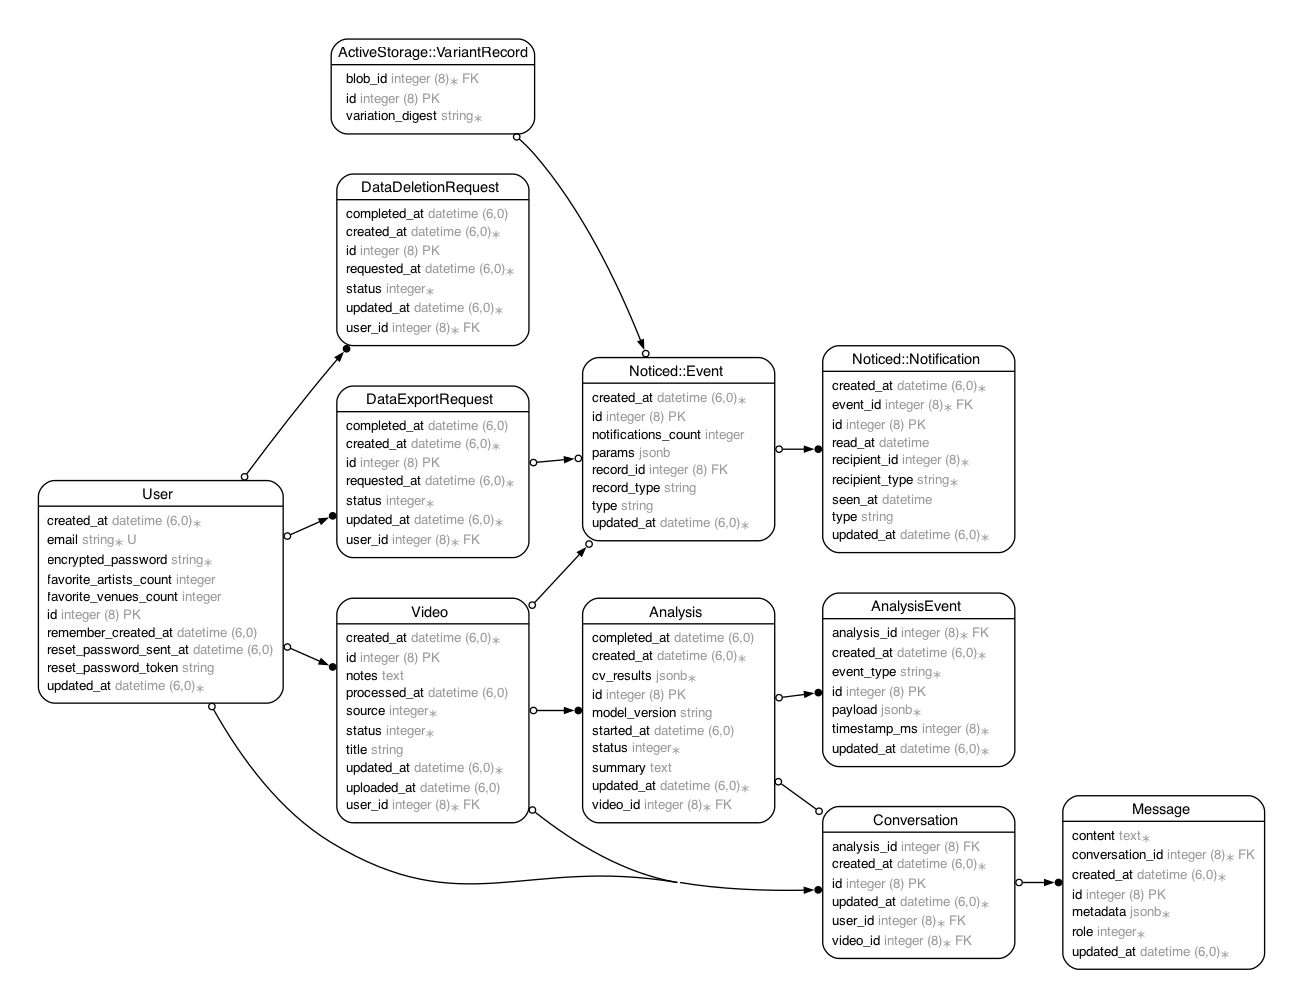
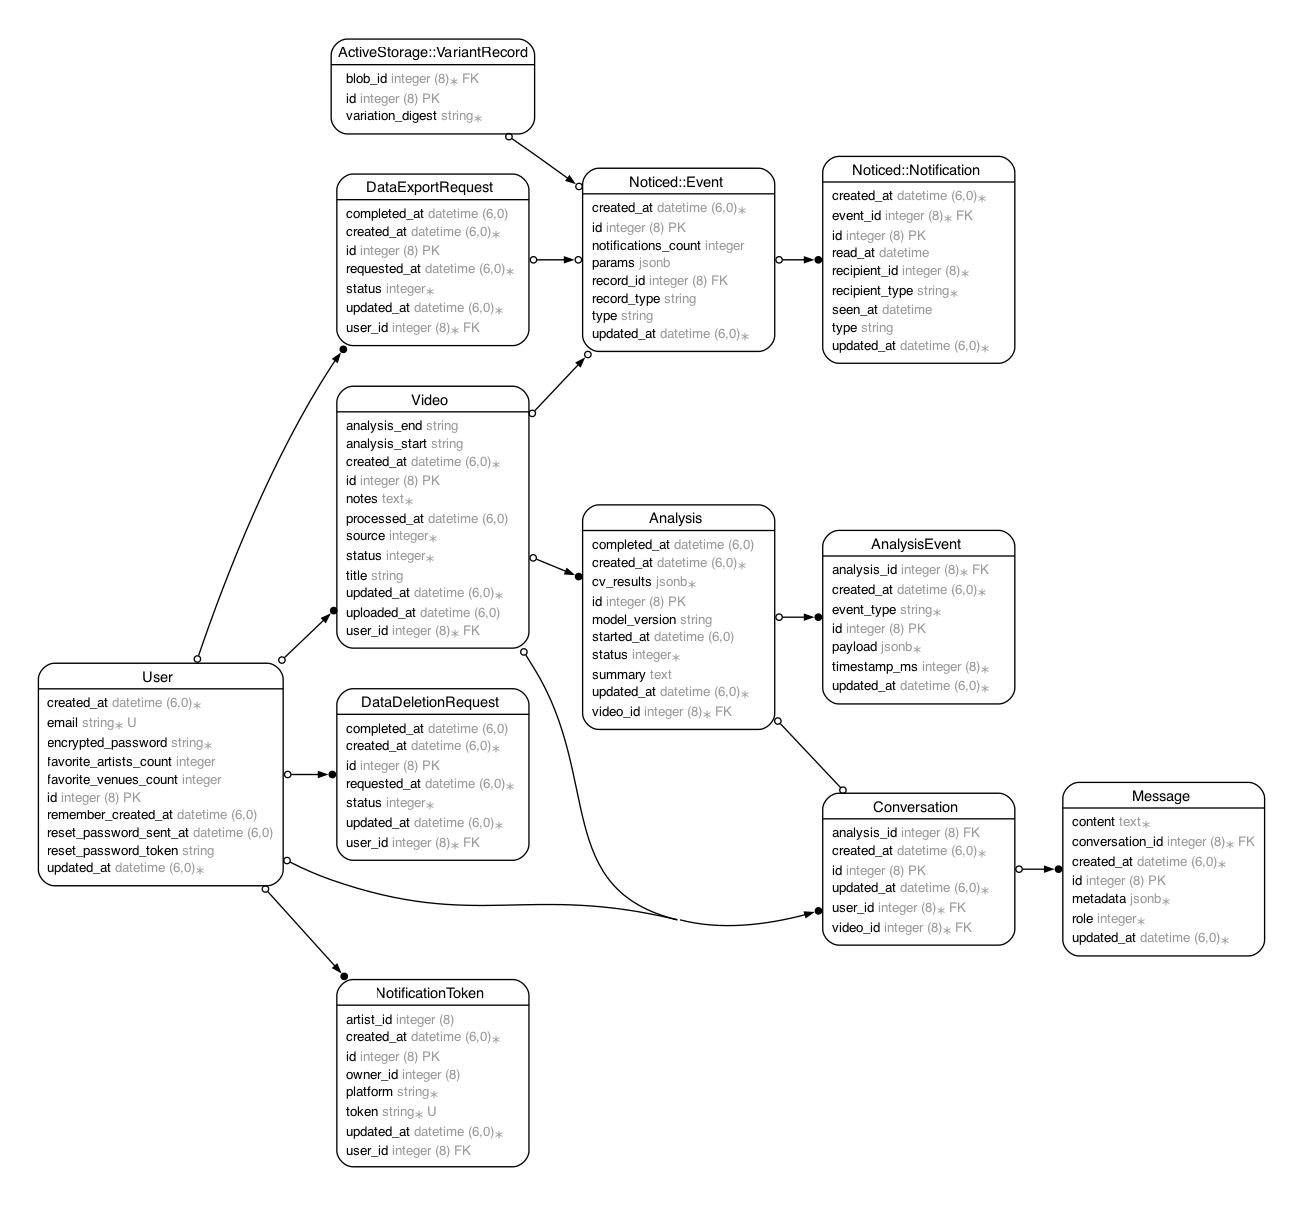
start/stop

diff --git a/app/javascript/controllers/bridge/video_upload_controller.js b/app/javascript/controllers/bridge/video_upload_controller.js
@@ -2,7 +2,7 @@ import { BridgeComponent } from "@hotwired/hotwire-native-bridge"
 
 export default class extends BridgeComponent {
   static component = "video-upload"
-  static targets = ["notes"]
+  static targets = ["notes", "analysisStart", "analysisEnd"]
   static values = {
     uploadUrl: String,
     csrfToken: String
@@ -14,9 +14,13 @@ export default class extends BridgeComponent {
     }
 
     const notes = this.hasNotesTarget ? this.notesTarget.value : ""
+    const analysisStart = this.hasAnalysisStartTarget ? this.analysisStartTarget.value : ""
+    const analysisEnd = this.hasAnalysisEndTarget ? this.analysisEndTarget.value : ""
     const payload = {
       uploadUrl: this.uploadUrlValue,
       notes,
+      analysis_start: analysisStart,
+      analysis_end: analysisEnd,
       csrfToken: this.csrfTokenValue
     }
 

diff --git a/app/models/video.rb b/app/models/video.rb
@@ -2,16 +2,18 @@
 #
 # Table name: videos
 #
-#  id           :bigint           not null, primary key
-#  notes        :text
-#  processed_at :datetime
-#  source       :integer          default("camera"), not null
-#  status       :integer          default("uploaded"), not null
-#  title        :string
-#  uploaded_at  :datetime
-#  created_at   :datetime         not null
-#  updated_at   :datetime         not null
-#  user_id      :bigint           not null
+#  id             :bigint           not null, primary key
+#  analysis_end   :string
+#  analysis_start :string
+#  notes          :text
+#  processed_at   :datetime
+#  source         :integer          default("camera"), not null
+#  status         :integer          default("uploaded"), not null
+#  title          :string
+#  uploaded_at    :datetime
+#  created_at     :datetime         not null
+#  updated_at     :datetime         not null
+#  user_id        :bigint           not null
 #
 # Indexes
 #
@@ -22,6 +24,8 @@
 #  fk_rails_...  (user_id => users.id)
 #
 class Video < ApplicationRecord
+  TIME_CODE_FORMAT = /\A(?:\d{1,2}:)?\d{1,2}:\d{2}(?:\.\d+)?\z/.freeze
+
   belongs_to :user
 
   has_one_attached :original_video
@@ -36,4 +40,37 @@ class Video < ApplicationRecord
   validates :source, presence: true
   validates :status, presence: true
   validates :notes, presence: true, if: -> { original_video.attached? }
+  validates :analysis_start, format: { with: TIME_CODE_FORMAT, message: "must be HH:MM:SS or MM:SS" }, allow_blank: true
+  validates :analysis_end, format: { with: TIME_CODE_FORMAT, message: "must be HH:MM:SS or MM:SS" }, allow_blank: true
+  validate :analysis_end_after_start
+
+  private
+
+  def analysis_end_after_start
+    return if analysis_start.blank? || analysis_end.blank?
+
+    start_sec = parse_timecode(analysis_start)
+    end_sec = parse_timecode(analysis_end)
+    return if start_sec.nil? || end_sec.nil?
+    return if end_sec > start_sec
+
+    errors.add(:analysis_end, "must be after start time")
+  end
+
+  def parse_timecode(value)
+    return nil if value.blank?
+    parts = value.to_s.strip.split(":")
+    case parts.length
+    when 1
+      parts[0].to_f
+    when 2
+      (parts[0].to_f * 60) + parts[1].to_f
+    when 3
+      (parts[0].to_f * 3600) + (parts[1].to_f * 60) + parts[2].to_f
+    else
+      nil
+    end
+  rescue ArgumentError, TypeError
+    nil
+  end
 end

diff --git a/app/jobs/video_analysis_job.rb b/app/jobs/video_analysis_job.rb
@@ -41,12 +41,13 @@ class VideoAnalysisJob < ApplicationJob
 
     input_uri = ensure_gcs_input(video)
     output_uri = build_output_uri(video, analysis)
-    clip_start = ENV.fetch("MODEL_RUNNER_START", "00:00:00")
+    clip_start, clip_duration = resolved_clip_window(video)
     base_cv_results = {
       "output_uri" => output_uri,
       "input_uri" => input_uri,
       "desc" => desc,
       "start" => clip_start,
+      "duration" => clip_duration,
       "poll_attempts" => 0
     }
     # Persist output location before dispatch so status polling can recover even if process exits mid-request.
@@ -63,7 +64,7 @@ class VideoAnalysisJob < ApplicationJob
         desc: desc,
         start: clip_start,
         output_uri: output_uri,
-        duration: ENV["MODEL_RUNNER_DURATION"],
+        duration: clip_duration,
         fps: ENV["MODEL_RUNNER_FPS"],
         width: ENV["MODEL_RUNNER_WIDTH"],
         select_t_sec: ENV["MODEL_RUNNER_SELECT_T_SEC"],
@@ -131,5 +132,41 @@ class VideoAnalysisJob < ApplicationJob
     bucket = ENV.fetch("GCS_BUCKET")
     dest_path = "pickleball/outputs/video_#{video.id}_analysis_#{analysis.id}.json"
     "gs://#{bucket}/#{dest_path}"
+  end
+
+  def resolved_clip_window(video)
+    env_start = ENV.fetch("MODEL_RUNNER_START", "00:00:00").to_s
+    env_duration = ENV["MODEL_RUNNER_DURATION"].presence
+
+    start_raw = video.analysis_start.to_s.strip
+    end_raw = video.analysis_end.to_s.strip
+
+    clip_start = start_raw.presence || env_start
+    clip_duration = env_duration
+
+    start_sec = parse_timecode_to_seconds(clip_start)
+    stop_sec = parse_timecode_to_seconds(end_raw)
+    if start_sec && stop_sec && stop_sec > start_sec
+      clip_duration = (stop_sec - start_sec).round(3).to_s
+    end
+
+    [clip_start, clip_duration]
+  end
+
+  def parse_timecode_to_seconds(value)
+    return nil if value.blank?
+    parts = value.to_s.split(":")
+    case parts.length
+    when 1
+      Float(parts[0])
+    when 2
+      (Float(parts[0]) * 60) + Float(parts[1])
+    when 3
+      (Float(parts[0]) * 3600) + (Float(parts[1]) * 60) + Float(parts[2])
+    else
+      nil
+    end
+  rescue ArgumentError, TypeError
+    nil
   end
 end

diff --git a/app/models/notification_token.rb b/app/models/notification_token.rb
@@ -1,3 +1,28 @@
+# == Schema Information
+#
+# Table name: notification_tokens
+#
+#  id         :bigint           not null, primary key
+#  platform   :string           not null
+#  token      :string           not null
+#  created_at :datetime         not null
+#  updated_at :datetime         not null
+#  artist_id  :bigint
+#  owner_id   :bigint
+#  user_id    :bigint
+#
+# Indexes
+#
+#  index_notification_tokens_on_artist_id  (artist_id)
+#  index_notification_tokens_on_owner_id   (owner_id)
+#  index_notification_tokens_on_user_id    (user_id)
+#
+# Foreign Keys
+#
+#  fk_rails_...  (artist_id => artists.id)
+#  fk_rails_...  (owner_id => owners.id)
+#  fk_rails_...  (user_id => users.id)
+#
 class NotificationToken < ApplicationRecord
   belongs_to :user
 

diff --git a/db/schema.rb b/db/schema.rb
@@ -10,7 +10,7 @@
 #
 # It's strongly recommended that you check this file into your version control system.
 
-ActiveRecord::Schema[8.0].define(version: 2026_01_04_145133) do
+ActiveRecord::Schema[8.0].define(version: 2026_03_03_101000) do
   # These are extensions that must be enabled in order to support this database
   enable_extension "pg_catalog.plpgsql"
   enable_extension "unaccent"
@@ -542,6 +542,8 @@ ActiveRecord::Schema[8.0].define(version: 2026_01_04_145133) do
     t.datetime "processed_at"
     t.datetime "created_at", null: false
     t.datetime "updated_at", null: false
+    t.string "analysis_start"
+    t.string "analysis_end"
     t.index ["user_id"], name: "index_videos_on_user_id"
   end
 

diff --git a/app/controllers/videos_controller.rb b/app/controllers/videos_controller.rb
@@ -63,7 +63,7 @@ class VideosController < ApplicationController
   end
 
   def video_params
-    params.fetch(:video, {}).permit(:title, :notes, :source, :original_video)
+    params.fetch(:video, {}).permit(:title, :notes, :source, :original_video, :analysis_start, :analysis_end)
   end
 
   def maybe_finalize_analysis(analysis)

diff --git a/db/migrate/20260303101000_add_analysis_window_to_videos.rb b/db/migrate/20260303101000_add_analysis_window_to_videos.rb
@@ -1,0 +1,6 @@
+class AddAnalysisWindowToVideos < ActiveRecord::Migration[8.0]
+  def change
+    add_column :videos, :analysis_start, :string
+    add_column :videos, :analysis_end, :string
+  end
+end
